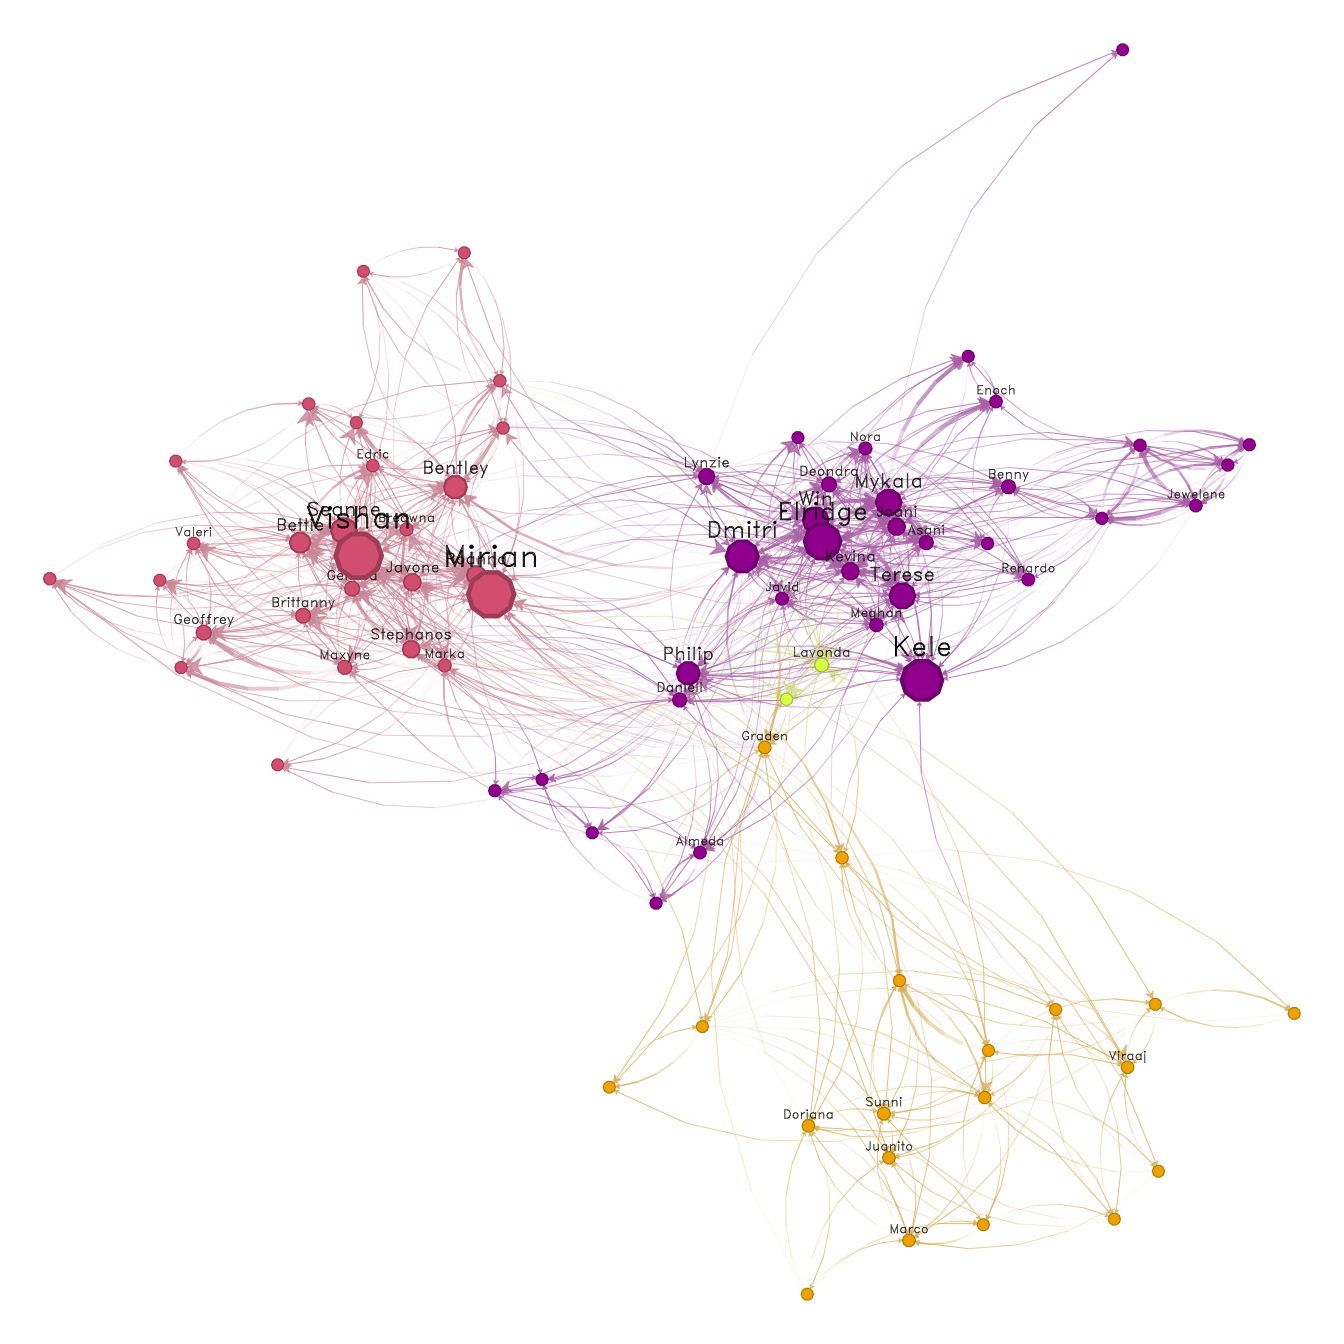
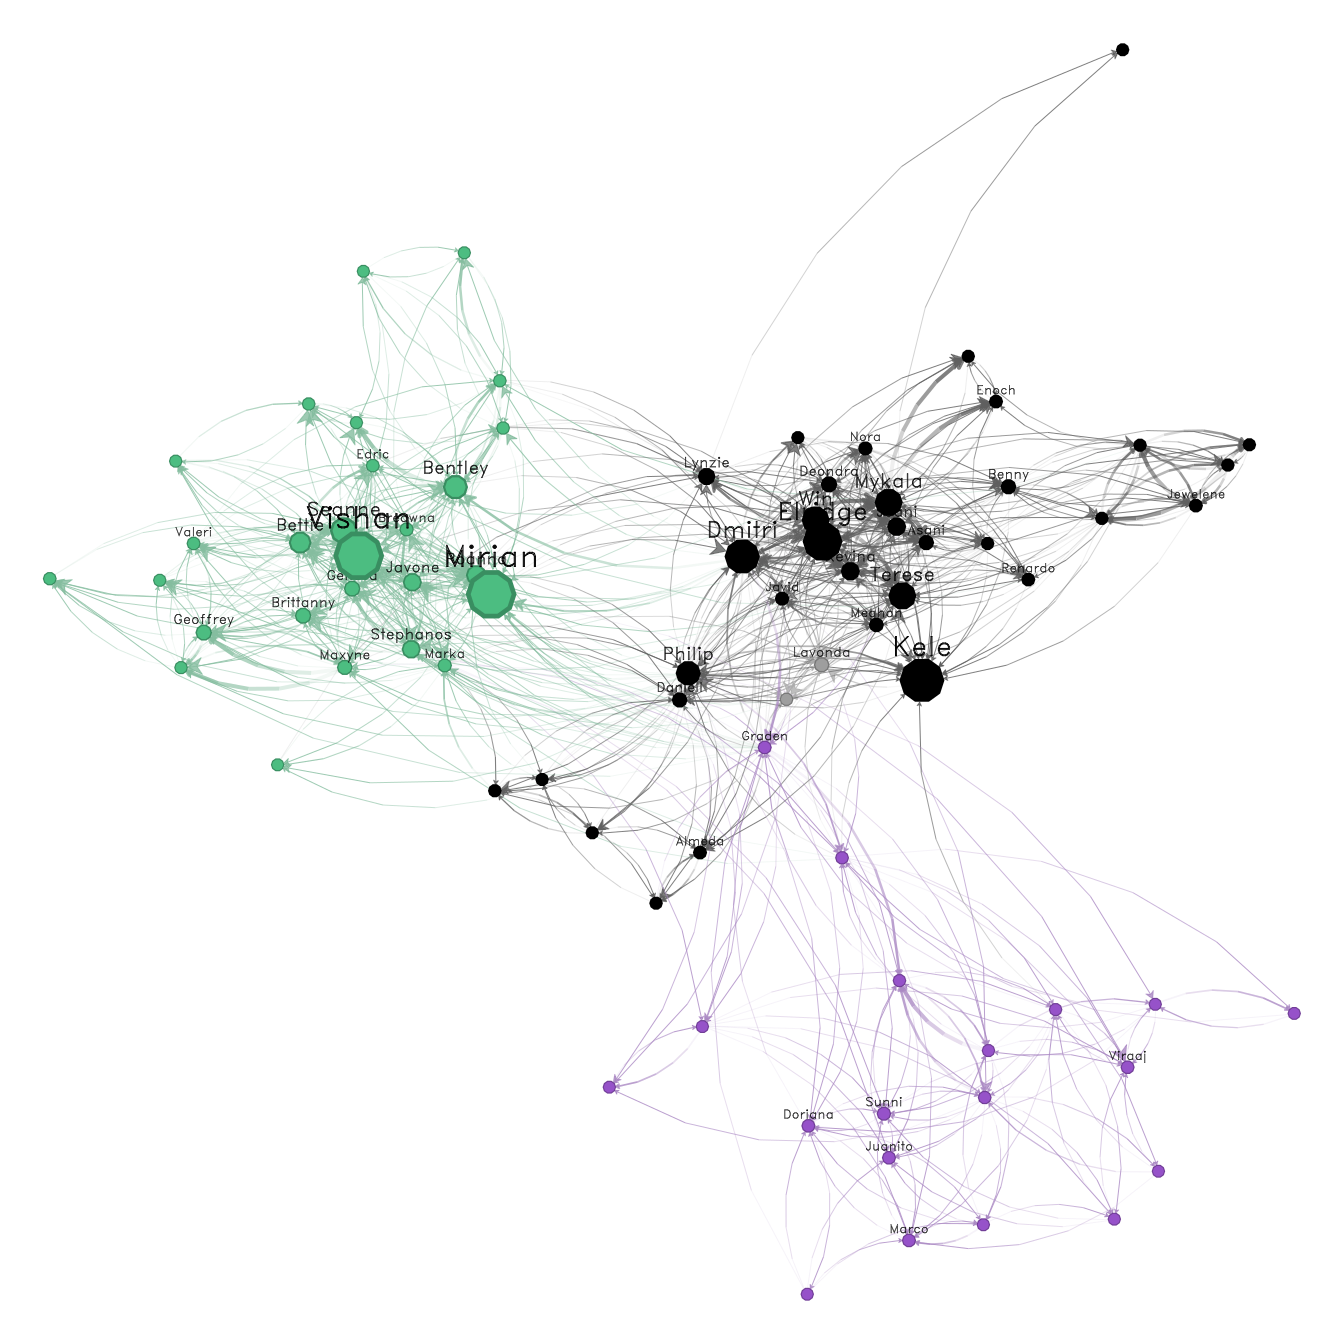
Updating README

diff --git a/README.md b/README.md
@@ -68,6 +68,9 @@ library(netplot)
 set.seed(1)
 data("UKfaculty", package = "igraphdata")
 l <- layout_with_fr(UKfaculty)
+#> This graph was created by an old(er) igraph version.
+#>   Call upgrade_graph() on it to use with the current igraph version
+#>   For now we convert it on the fly...
 
 plot(UKfaculty, layout = l) # ala igraph
 ```
@@ -75,6 +78,8 @@ plot(UKfaculty, layout = l) # ala igraph
 <img src="man/figures/README-example-1.png" width="85%" />
 
 ``` r
+
+V(UKfaculty)$ss <- runif(vcount(UKfaculty))
 nplot(UKfaculty, layout = l) # ala netplot
 ```
 
@@ -96,7 +101,7 @@ nam <- sample(babynames::babynames$name, vcount(UKfaculty))
 ans <- nplot(
   UKfaculty,
   layout                = l,
-  vertex.color          = grDevices::hcl.colors(5, "Plasma")[V(UKfaculty)$Group + 1],
+  vertex.color          = ~ Group,
   vertex.label          = nam,
   vertex.size.range     = c(.01, .04, 4),
   vertex.label.col      =  "black",
@@ -112,20 +117,7 @@ ans <- nplot(
 ans
 ```
 
-<img src="man/figures/README-unnamed-chunk-1-1.png" width="85%" />
-
-``` r
-
-# With a legend
-nplot_legend(
-  ans, 
-  labels = paste("Group", 1:4),
-  pch    = c(21, 21, 21),
-  gp     = grid::gpar(fill = grDevices::hcl.colors(5, "Plasma")[2:4])
-  )
-```
-
-<img src="man/figures/README-unnamed-chunk-1-2.png" width="85%" />
+<img src="man/figures/README-unnamed-chunk-1-1.png" width="85%" /><img src="man/figures/README-unnamed-chunk-1-2.png" width="85%" />
 
 Starting version 0.2-0, we can use gradients!
 
@@ -138,7 +130,7 @@ ans |>
       }))
 ```
 
-<img src="man/figures/README-uk-faculty-gradient-1.png" width="85%" />
+<img src="man/figures/README-uk-faculty-gradient-1.png" width="85%" /><img src="man/figures/README-uk-faculty-gradient-2.png" width="85%" />
 
 ### USairports
 
@@ -148,6 +140,9 @@ data(USairports, package="igraphdata")
 
 # Generating a layout naively
 layout   <- V(USairports)$Position
+#> This graph was created by an old(er) igraph version.
+#>   Call upgrade_graph() on it to use with the current igraph version
+#>   For now we convert it on the fly...
 layout   <- do.call(rbind, lapply(layout, function(x) strsplit(x, " ")[[1]]))
 layout[] <- stringr::str_remove(layout, "^[a-zA-Z]+")
 layout   <- matrix(as.numeric(layout[]), ncol=2)
@@ -170,7 +165,7 @@ net <- simplify(USairports, edge.attr.comb = list(
 nplot(
   net,
   layout            = layout,
-  edge.width        = E(net)$Passengers,
+  edge.width        = ~ Passengers,
   edge.color        = 
     ~ ego(col = "white", alpha = 0) + alter(col = "yellow", alpha = .75),
   skip.vertex       = TRUE,
